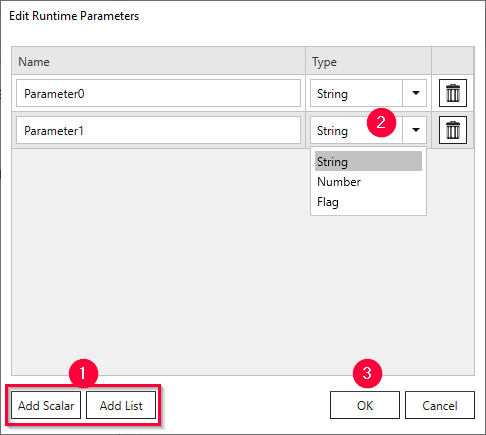
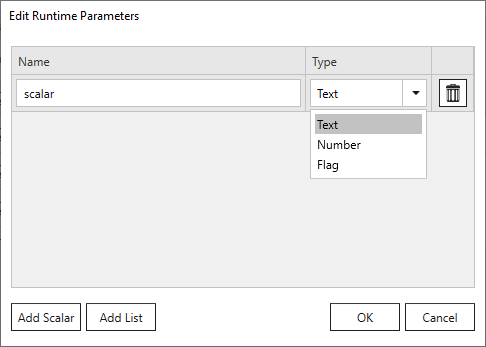
edit runtime parameters

diff --git a/_includes/_content/en/edit-runtime-parameters.md b/_includes/_content/en/edit-runtime-parameters.md
@@ -6,16 +6,17 @@ Follow the steps below to create runtime parameters:
 1. In the main window of the component click {% if page.product == "xtract-for-alteryx" or page.product == "xtract-is" %}**Edit parameters**{% else %}**Edit Runtime Parameters**{% endif %}. 
 The window “Edit Runtime Parameters” opens.<br>
 {% if page.product == "xtract-for-alteryx" and page.parent == "odp"%}![Edit runtime parameters](/img/content/xfa/odp-edit-runtime-params.png){:class="img-responsive"}{% elsif page.product == "xtract-for-alteryx" and page.parent == "reports"%}![Edit runtime parameters](/img/content/xfa/report-edit-runtime-params.png){:class="img-responsive"}{% elsif page.product == "xtract-for-alteryx" and page.parent == "bw-cube"%}![Edit runtime parameters](/img/content/xfa/cube-edit-runtime-params.png){:class="img-responsive"}{% elsif page.product == "xtract-for-alteryx" and page.parent == "queries"%}![Edit runtime parameters](/img/content/xfa/query-edit-runtime-params.png){:class="img-responsive"}{% elsif page.product == "xtract-for-alteryx" and page.parent == "table"%}![Edit runtime parameters](/img/content/xfa/table-edit-runtime-params.png){:class="img-responsive"}{% elsif page.product == "xtract-for-alteryx" and page.parent == "bapi"%}![Edit runtime parameters](/img/content/xfa/BAPI-Edit-Parameters.png){:class="img-responsive"}{% elsif page.product == "xtract-universal" or page.product == "board-connector"%}{% if page.parent == "odp"%}![Edit runtime parameters](/img/content/xu/odp-edit-runtime-params.png){:class="img-responsive"}{% elsif page.parent == "bw-infocubes-and-bex-queries"%}![Edit runtime parameters](/img/content/xu/cube-edit-runtime-params.png){:class="img-responsive"}{% elsif page.parent == "sap-queries"%}![Edit runtime parameters](/img/content/xu/queries-edit-runtime-params.png){:class="img-responsive"}{% elsif page.parent == "bapis-and-function-modules"%}![Edit runtime parameters](/img/content/xu/bapi-edit-runtime-params.png){:class="img-responsive"}{% elsif page.parent == "abap-reports"%}![Edit runtime parameters](/img/content/xu/report-edit-runtime-params.png){:class="img-responsive"}{% endif %}{% else %}![Edit runtime parameters](/img/content/xis/odp-edit-runtime-params.png){:class="img-responsive"}{% endif %}
-2. Click **[Add Scalar]** or **[Add List]** (1) to create a scalar or list parameter that can be used a placeholder for values.
-List parameters can contain multiple values separated by commas e.g., 1,10 or “1”, “10”.
-The placeholders need to be populated with actual values at runtime. <br>
+2. Click **[Add Scalar]** to define scalar parameters to be used as placeholders for actual values.<br>
+Click **[Add List]** to define list parameters that contain multiple values separated by commas e.g., 1,10 or “1”, “10”. <br>
+The placeholders need to be populated with actual values at extraction runtime.<br>
 **Tip:** Parameter0..-n is the default naming for the added parameter. You can enter a name of your choice.<br>
-![ODP Add parameters](/img/content/edit-runtime-parameters-list.png){:class="img-responsive"}
-3. Click on the drop-down menu (2) and assign one of the following data types to a parameter. The data types can, but don't have to correlate to SAP data types. <br>
-*String*: This data type can be used for any type of SAP selection field.<br>
-*Integer / Number*: This data type can be used for numeric SAP selection fields.<br>
-*Flag*: This data type can only be used for SAP selection fields, which require an 'X'&nbsp;(true) or a blank ''&nbsp;(false) as input value.
-4. Click **[OK]** (3) to confirm.
+![dd-parameters](/img/content/edit-runtime-parameters-list.png){:class="img-responsive"}
+3. Select one of the following data types from the drop-down menu.
+The data types may correlate to SAP data types.
+- *Text*: Can be used for any type of SAP selection field.{% if page.product == "xtract-for-alteryx" %} List parameters are always of type *String*.{% endif %}
+- *Number*: Can be used for numeric SAP selection fields.
+- *Flag*: Can only be used for SAP selection fields, which require an ‘X’ (true) or a blank ‘‘ (false) as input value.
+4. Click **[OK]** to confirm.
 
 {% if page.product == "xtract-universal" %}
 Runtime parameters are overwritten at runtime, see [Extraction Parameters - Custom](../execute-and-automate-extractions/extraction-parameters#custom).
@@ -23,3 +24,4 @@ Runtime parameters are overwritten at runtime, see [Extraction Parameters - Cust
 {% if page.product == "board-connector" %}
 Runtime parameters are overwritten at runtime, see [Extraction Parameters - Custom](../advanced-techniques/extraction-parameters#custom)
 {% endif %}
+

diff --git a/_includes/_content/de/edit-runtime-parameters.md b/_includes/_content/de/edit-runtime-parameters.md
@@ -4,16 +4,16 @@ Führen Sie die folgenden Schritte aus, um Laufzeitparameter anzulegen:
 1. Klicken Sie im Hauptfenster der Komponente auf {% if page.product == "xtract-for-alteryx" or page.product == "xtract-is" %}**Edit parameters**{% else %}**Edit Runtime Parameters**{% endif %}.
 Das Fenster “Edit Runtime Parameters” öffnet sich.<br> 
 {% if page.product == "xtract-for-alteryx" and page.parent == "odp"%}![Edit runtime parameters](/img/content/xfa/odp-edit-runtime-params.png){:class="img-responsive"}{% elsif page.product == "xtract-for-alteryx" and page.parent == "reports"%}![Edit runtime parameters](/img/content/xfa/report-edit-runtime-params.png){:class="img-responsive"}{% elsif page.product == "xtract-for-alteryx" and page.parent == "queries"%}![Edit runtime parameters](/img/content/xfa/query-edit-runtime-params.png){:class="img-responsive"}{% elsif page.product == "xtract-for-alteryx" and page.parent == "bw-cube"%}![Edit runtime parameters](/img/content/xfa/cube-edit-runtime-params.png){:class="img-responsive"}{% elsif page.product == "xtract-for-alteryx" and page.parent == "table"%}![Edit runtime parameters](/img/content/xfa/table-edit-runtime-params.png){:class="img-responsive"}{% elsif page.product == "xtract-for-alteryx" and page.parent == "bapi"%}![Edit runtime parameters](/img/content/xfa/BAPI-Edit-Parameters.png){:class="img-responsive"}{% elsif page.product == "xtract-universal" or page.product == "board-connector"%}{% if page.parent == "odp"%}![Edit runtime parameters](/img/content/xu/odp-edit-runtime-params.png){:class="img-responsive"}{% elsif page.parent == "bw-infocubes-and-bex-queries"%}![Edit runtime parameters](/img/content/xu/cube-edit-runtime-params.png){:class="img-responsive"}{% elsif page.parent == "sap-queries"%}![Edit runtime parameters](/img/content/xu/queries-edit-runtime-params.png){:class="img-responsive"}{% elsif page.parent == "bapis-and-function-modules"%}![Edit runtime parameters](/img/content/xu/bapi-edit-runtime-params.png){:class="img-responsive"}{% elsif page.parent == "abap-reports"%}![Edit runtime parameters](/img/content/xu/report-edit-runtime-params.png){:class="img-responsive"}{% endif %}{% else %}![Edit runtime parameters](/img/content/xis/odp-edit-runtime-params.png){:class="img-responsive"}{% endif %}
-2. Klicken Sie auf **[Add Scalar]** oder **[Add List]** (1), um Skalar- oder Listenparameter zu erstellen, die als Platzhalter verwendet werden können.
+2. Klicken Sie auf **[Add Scalar]** oder **[Add List]**, um Skalar- oder Listenparameter zu erstellen, die als Platzhalter verwendet werden können.
 Listenparameter können mehrere Werten enthalten, die durch Kommas voneinander getrennt werden, z.B. *1,10* oder *"1", "10"*.
 Die Platzhalter müssen zur Laufzeit mit echten Werten befüllt werden.  <br>
 **Tipp:** Parameter0..-n sind die Standardnamen für die hinzugefügten Parameter. Sie können einen beliebigen Namen eingeben.
 ![ODP Add parameters](/img/content/edit-runtime-parameters-list.png){:class="img-responsive"}
-3. Klicken Sie auf das Drop-Down-Menü (2) und weisen Sie einen der folgenden Datentypen einem Parameter zu. Die Datentypen müssen mit den SAP-Datentypen übereinstimmen. <br>
-*String*: dieser Datentyp kann für jeden Typ der SAP-Selektionsfelder verwendet werden.<br>
-*Integer / Number*: dieser Datentyp kann nur für numerische SAP-Selektionsfelder verwendet werden.<br>
+3. Klicken Sie auf das Drop-Down-Menü und weisen Sie einen der folgenden Datentypen einem Parameter zu. Die Datentypen müssen mit den SAP-Datentypen übereinstimmen. <br>
+*Text*: dieser Datentyp kann für jeden Typ der SAP-Selektionsfelder verwendet werden.<br>
+*Number*: dieser Datentyp kann nur für numerische SAP-Selektionsfelder verwendet werden.<br>
 *Flag*: dieser Datentyp kann nur für SAP-Selektionsfelder verwendet werden, die einen 'X'&nbsp;(true) oder eine leere Eingabe ''&nbsp;(false) als Eingabewert benötigen. 
-4. Klicken Sie auf **[OK]** (3) zum Bestätigen.
+4. Klicken Sie auf **[OK]** zum Bestätigen.
 
 {% if page.product == "xtract-universal" %}
 Die Laufzeitparameter werden zur Laufzeit überschrieben, siehe [Extraktionsparameter - Custom](../extraktionen-ausfuehren-und-einplanen/extraktionsparameter#custom).

diff --git a/_includes/_content/de/table/where-bedingung-laufzeitparameter.md b/_includes/_content/de/table/where-bedingung-laufzeitparameter.md
@@ -5,16 +5,17 @@ Um Laufzeitparameter anzulegen und zuzuweisen, führen Sie die folgenden Schritt
 
 1. Klicken Sie im Hauptfenster der Komponente auf {% if page.product == "xtract-for-alteryx" %}**[Edit Parameters]**{% else %}**Edit Runtime Parameters**{% endif %}.
 Das Fenster “Edit Runtime Parameters” öffnet sich.<br>
-![dd-parameters](/img/content/where-clause-parameter.png){:class="img-responsive"}
+![dd-parameters](/img/contentedit-runtime-parameters-list.png){:class="img-responsive"}
 2. Klicken Sie auf **[Add Scalar]**, um Skalarparameter zu definieren, die als Platzhalter für echte Werte verwendet werden können.<br>
-{% if page.product == "xtract-for-alteryx" %}Klicken Sie auf **[Add List]**, um Listenparameter zu definieren, die mehrere Werten enthalten können. Die Werte werden durch Kommas voneinander getrennt, z.B. 1,10 oder “1”, “10”.<br>{% endif %} Die Platzhalter müssen zur Extraktionslaufzeit mit echten Werten befüllt werden.<br>
-**Tipp:** Parameter0..-n sind die Standardnamen für die hinzugefügten Parameter. Sie können einen beliebigen Namen eingeben.
-3. Klicken Sie auf das Drop-Down-Menü (2) und weisen Sie einen der folgenden Datentypen einem Parameter zu. <br>
+Klicken Sie auf **[Add List]**, um Listenparameter zu definieren, die mehrere Werten enthalten können. Die Werte werden durch Kommas voneinander getrennt, z.B. 1,10 oder “1”, “10”.<br>
+Die Platzhalter müssen zur Extraktionslaufzeit mit echten Werten befüllt werden.<br>
+**Tipp:** Parameter0..-n sind die Standardnamen für die hinzugefügten Parameter. Sie können einen beliebigen Namen eingeben.<br>
+![dd-parameters](/img/content/edit-runtime-parameters-list.png){:class="img-responsive"}3. Klicken Sie auf das Drop-Down-Menü und weisen Sie einen der folgenden Datentypen einem Parameter zu. <br>
 Die Datentypen müssen mit den SAP-Datentypen übereinstimmen.
 - String: dieser Datentyp kann für jeden Typ der SAP-Selektionsfelder verwendet werden. {% if page.product == "xtract-for-alteryx" %} Listemparameter sind immer vom Typ *String*.{% endif %}
 - Number: dieser Datentyp kann nur für numerische SAP-Selektionsfelder verwendet werden.
 - Flag: dieser Datentyp kann nur für SAP-Selektionsfelder verwendet werden, die einen ‘X’ (true) oder eine leere Eingabe ‘‘ (false) als Eingabewert benötigen.
-4. Klicken Sie auf **[OK]** (3) zum Bestätigen.
+4. Klicken Sie auf **[OK]** zum Bestätigen.
 5. Navigieren Sie zum WHERE Clause Tab des Hauptfensters öffnen Sie den WHERE Clause Editor.
 6. Fügen Sie der WHERE-Bedingung über **[Add Criteria]** und **[Default with Parameter]** ein neues Kriterium hinzu.
 7. Klicken Sie auf die *Parameter* Komponente des Kriteriums. Eine Drop-Down-Liste öffnet sich und zeigt alle verfügbaren Laufzeitparameter an.

diff --git a/_includes/_content/en/tables/where-clause-runtime-parameters.md b/_includes/_content/en/tables/where-clause-runtime-parameters.md
@@ -5,16 +5,17 @@ To create and assign runtime parameters, follow the steps below:
 
 1. In the main window of the component click {% if page.product == "xtract-for-alteryx" %}**[Edit Parameters]**{% else %}**Edit Runtime Parameters**{% endif %}.
 The window “Edit Runtime Parameters” opens.<br>
-![dd-parameters](/img/content/where-clause-parameter.png){:class="img-responsive"}
+![dd-parameters](/img/content/edit-runtime-parameters-list.png){:class="img-responsive"}
 2. Click **[Add Scalar]** to define scalar parameters to be used as placeholders for actual values.<br>
-{% if page.product == "xtract-for-alteryx" %}Click **[Add List]** to define list parameters that contain multiple values separated by commas e.g., 1,10 or “1”, “10”. <br>{% endif %} The placeholders need to be populated with actual values at extraction runtime.<br>
+Click **[Add List]** to define list parameters that contain multiple values separated by commas e.g., 1,10 or “1”, “10”. <br>
+The placeholders need to be populated with actual values at extraction runtime.<br>
 **Tip:** Parameter0..-n is the default naming for the added parameter. You can enter a name of your choice.
-3. Click the drop-down menu (2) and assign one of the following data types to a parameter. <br>
+3. Select one of the following data types from the drop-down menu.
 The data types may correlate to SAP data types.
-- String: Can be used for any type of SAP selection field.{% if page.product == "xtract-for-alteryx" %} List parameters are always of type *String*.{% endif %}
-- Number: Can be used for numeric SAP selection fields.
-- Flag: Can only be used for SAP selection fields, which require an ‘X’ (true) or a blank ‘‘ (false) as input value.
-4. Click **[OK]** (3) to confirm. 
+- *Text*: Can be used for any type of SAP selection field.{% if page.product == "xtract-for-alteryx" %} List parameters are always of type *String*.{% endif %}
+- *Number*: Can be used for numeric SAP selection fields.
+- *Flag*: Can only be used for SAP selection fields, which require an ‘X’ (true) or a blank ‘‘ (false) as input value.
+4. Click **[OK]** to confirm. 
 5. Navigate to the WHERE clause tab in the main window of the extraction and open the WHERE clause editor.
 6. Add a new WHERE clause criteria that uses the **[Default with Parameter]** template.
 7. Click on the *Parameter* component. A drop-down list that displays all available parameters opens. 

diff --git a/_includes/_content/de/bw-infocubes-und-bex-queries/edit-runtime-parameters.md b/_includes/_content/de/bw-infocubes-und-bex-queries/edit-runtime-parameters.md
@@ -1,36 +1,4 @@
 
-<!---
-
-Verwenden Sie Laufzeitparameter, um Dimensionsfilter und Variablen dynamisch zur Laufzeit anzupassen.<br>
-
-### Laufzeitparameter erstellen 
-
-1. Klicken Sie im Hauptfenster der Komponente auf **Edit Runtime Parameter**, um Laufzeitparameter anzulegen und zu bearbeiten.
-Das Fenster "Edit Runtime Parameters" öffnet sich.<br> 
-![Add parameters](/img/content/edit-runtime-parameters-list.png){:class="img-responsive"}<br> 
-2. Klicken Sie auf **[Add Scalar]**, um Skalarparameter zu definieren, die als Platzhalter für die Datenfilter verwendet werden können. <br>
-Klicken Sie auf **[Add List]**, um Listenparameter zu definieren, die als Platzhalter für Dimensionsfilter mit mehreren Werten verwendet werden können. <br>
-Die Platzhalter müssen zur Extraktionslaufzeit mit echten Werten befüllt werden. Listenparameter enthalten eine Liste von Werten, die durch ein Komma voneinander getrennt sind z.B. *1,10* oder *"1", "10"*.<br>
-**Tipp:** Parameter0..-n sind die Standardnamen für die hinzugefügten Parameter. Sie können einen beliebigen Namen eingeben.
-3. Klicken Sie auf das Drop-Down-Menü und weisen Sie einen der folgenden Datentypen einem Parameter zu. Die Datentypen können, müssen aber nicht mit den SAP-Datentypen übereinstimmen. 
-- String: dieser Datentyp kann für jeden Typ der SAP-Felder verwendet werden.
-- Number: dieser Datentyp kann nur für numerische SAP-Felder verwendet werden.
-- Flag: dieser Datentyp kann nur für SAP-Felder verwendet werden, die einen 'X'&nbsp;(true) oder eine leere Eingabe ''&nbsp;(false) als Eingabewert benötigen. <br>
-4. Klicken Sie auf **[OK]** zum Bestätigen.
--->
-
-
-#### Skalare Parameter Hinzufügen
-{% if page.product == "xtract-for-alteryx" %} ![Add Scalar](/img/content/xfa/xfa_scalar_2.gif){:class="img-responsive" style="border:1px solid black;"}
-{% else %} ![Add Scalar](/img/content/bwcube_scalar_param_bw.gif){:class="img-responsive" style="border:1px solid black;"}
-{% endif %}
-
-#### Listenparameter Hinzufügen
-
-{% if page.product == "xtract-for-alteryx" %} ![Add List](/img/content/xfa/xfa_list_param.gif){:class="img-responsive" style="border:1px solid black;"}
-{% else %} ![Add List](/img/content/bwcube_list_param.gif){:class="img-responsive" style="border:1px solid black;"}
-{% endif %}
-
 
 ### Laufzeitparameter zuweisen
 

diff --git a/_includes/_content/en/bw-infocubes-and-bex-queries/edit-runtime-parameters.md b/_includes/_content/en/bw-infocubes-and-bex-queries/edit-runtime-parameters.md
@@ -1,39 +1,7 @@
-<!---
-
-Use runtime parameters to change dimension filters and variables dynamically during runtime.<br>
-
-### Create Runtime Parameters 
-
-1. Click **Edit Runtime Parameters** in the main window of the component to create or edit dynamic runtime parameters.
-The window "Edit Runtime Parameters" opens.<br>
-![Add parameters](/img/content/edit-runtime-parameters-list.png){:class="img-responsive"}<br> 
-2. Click **[Add Scalar]** to define scalar parameters that can be used as placeholders for filters.<br>
-Click **[Add List]** to define list parameters that can be used as placeholders for dimension filters with multiple members.<br>
-The placeholders need to be populated with actual values at extraction runtime. List parameters contain a list of values separated by commas e.g., *1,10* or *"1", "10"*.<br>
-**Tip:** Parameter0..-n is the default naming for the added parameter. You can enter a name of your choice.<br>
-3. Open the drop-down menu and assign one of the following data types to the parameter. The data types can, but don't need to correlate to SAP data types. 
-- String: This data type can be used for any type of SAP field.
-- Number: This data type can be used for numeric SAP fields.
-- Flag: This data type can only be used for SAP fields that require an 'X'&nbsp;(true) or a blank ''&nbsp;(false) as input value.<br>
-4. Click **[OK]** to confirm.
-
--->
 
 {: .box-note } 
 **Note:** In the BWCube component, runtime parameters usually represent key values. 
 The filter options of BWCube do not support filtering text descriptions.
-
-#### Adding Scalar Parameters
-{% if page.product == "xtract-for-alteryx" %} ![Add Scalar](/img/content/xfa/xfa_scalar_2.gif){:class="img-responsive" style="border:1px solid black;"}
-{% else %} ![Add Scalar](/img/content/bwcube_scalar_param_bw.gif){:class="img-responsive" style="border:1px solid black;"}
-{% endif %}<br>
-
-
-#### Adding List Parameters
-
-{% if page.product == "xtract-for-alteryx" %} ![Add List](/img/content/xfa/xfa_list_param.gif){:class="img-responsive" style="border:1px solid black;"}
-{% else %} ![Add List](/img/content/bwcube_list_param.gif){:class="img-responsive" style="border:1px solid black;"}
-{% endif %}<br>
 
 
 ### Assign Runtime Parameters

diff --git a/content/_en/xtract-universal/table/edit-runtime-parameters.md b/content/_en/xtract-universal/table/edit-runtime-parameters.md
@@ -11,6 +11,7 @@ lang: en_GB
 old_url: /Xtract-Universal-EN/default.aspx?pageid=where-clause
 ---
 
+
 Runtime parameters can be created in context of using the WHERE clause.
 
 {% include _content/en/tables/where-clause-runtime-parameters.md %}
